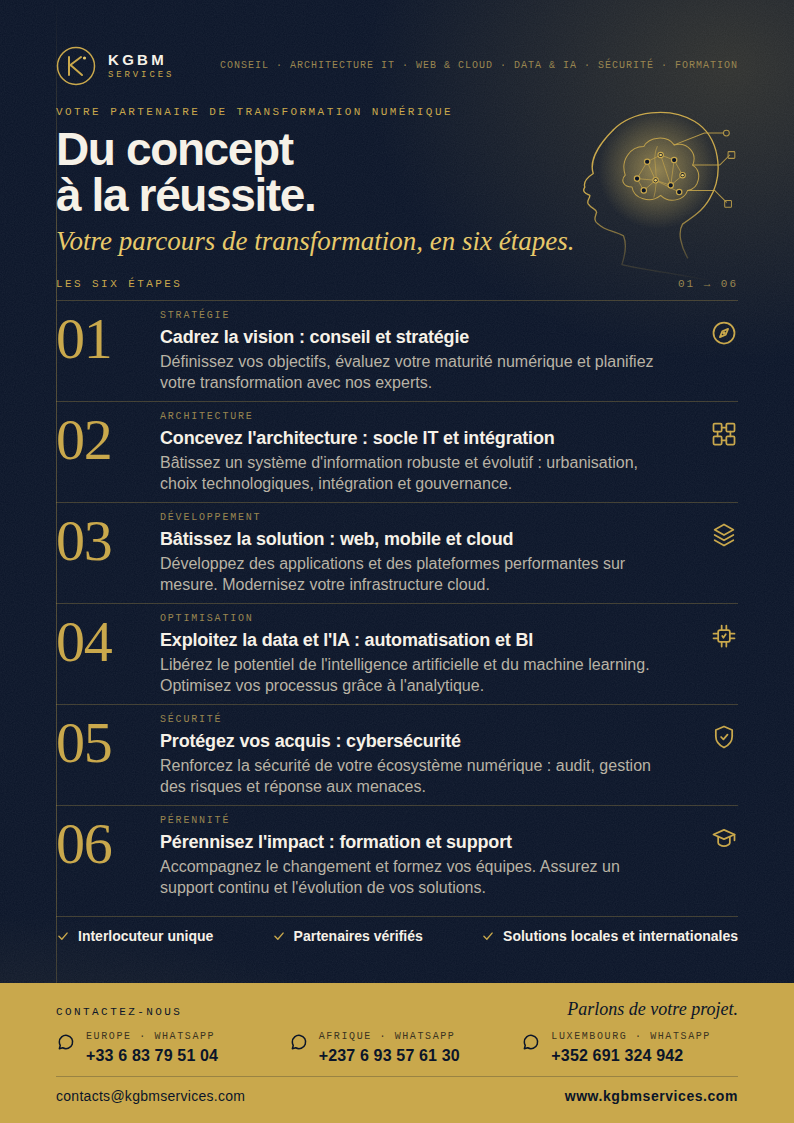
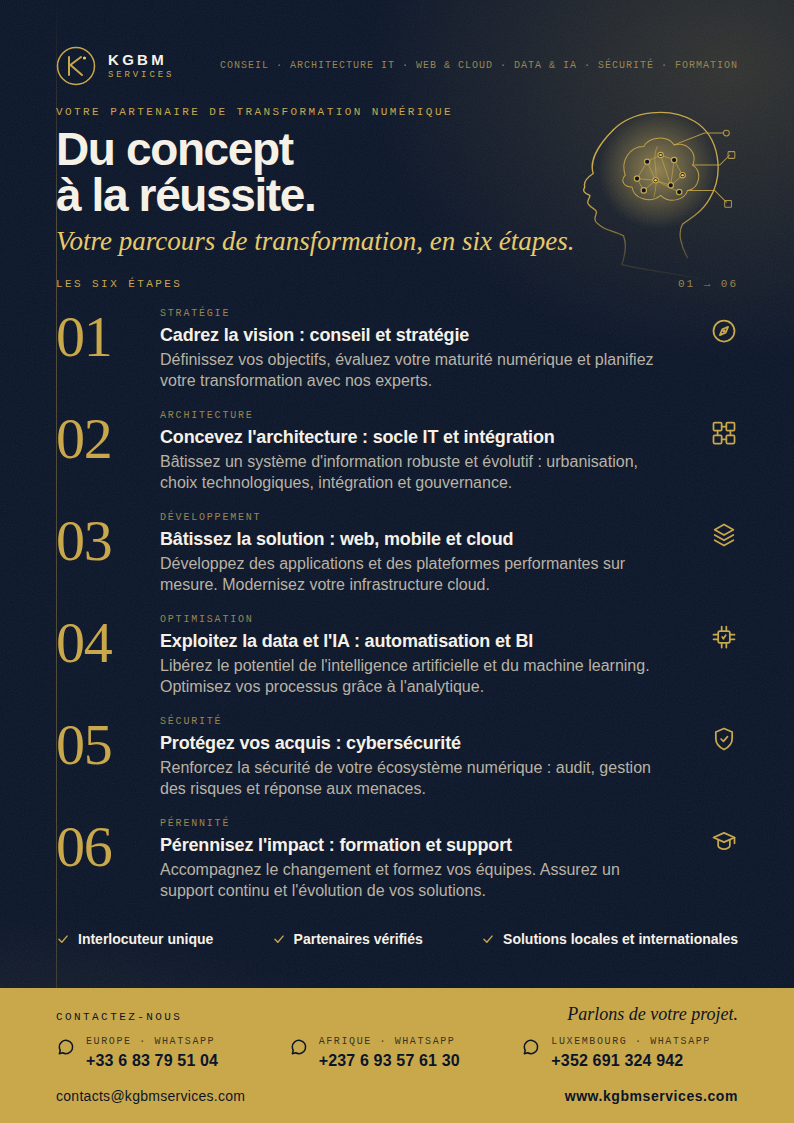
design(flyer): suppression des filets horizontaux, structure par numéros et espacement
Claude-Session: https://claude.ai/code/session_01DPYxJtRniBC8Gpo4sdzXU9

diff --git a/design/flyer-kgbm/PapierClair.dc.html b/design/flyer-kgbm/PapierClair.dc.html
@@ -12,7 +12,7 @@
     body { margin: 0; background: #F6F1E7; }
     a { color: #C9A84C; text-decoration: none; } a:hover { color: #E8C96A; }
     .ico { width: 28px; height: 28px; fill: none; stroke: #C9A84C; stroke-width: 1.5; stroke-linecap: round; stroke-linejoin: round; }
-    .row { display: grid; grid-template-columns: 88px minmax(0, 1fr) 48px; column-gap: 16px; align-items: start; padding: 8px 0; border-top: 1px solid rgba(201,168,76,0.28); }
+    .row { display: grid; grid-template-columns: 88px minmax(0, 1fr) 48px; column-gap: 16px; align-items: start; padding: 9px 0; }
     .num { font-family: 'Cormorant Garamond', Georgia, 'Times New Roman', serif; font-weight: 300; font-size: 58px; line-height: 52px; color: #C9A84C; letter-spacing: -0.02em; margin-top: 4px; }
     .kick { font-family: 'IBM Plex Mono', 'Courier New', monospace; font-size: 10px; line-height: 14px; letter-spacing: 0.18em; text-transform: uppercase; color: #8A7430; }
     .ttl { font-family: Archivo, 'Helvetica Neue', Arial, sans-serif; font-weight: 700; font-size: 18px; line-height: 22px; color: #1B2238; margin-top: 3px; letter-spacing: -0.01em; }
@@ -57,7 +57,7 @@
       <div style="font-family: 'IBM Plex Mono', 'Courier New', monospace; font-size: 11px; line-height: 16px; letter-spacing: 0.18em; text-transform: uppercase; color: #8A7430;">01 → 06</div>
     </div>
 
-    <div style="margin-top: 8px; display: flex; flex-direction: column;">
+    <div style="margin-top: 6px; display: flex; flex-direction: column;">
 
       <div class="row">
         <div class="num">01</div>
@@ -122,7 +122,7 @@
     </div>
 
     <!-- avantages -->
-    <div style="margin-top: 10px; padding: 10px 0 12px 0; border-top: 1px solid rgba(201,168,76,0.28); display: flex; justify-content: space-between; align-items: center; gap: 16px;">
+    <div style="margin-top: 12px; padding: 8px 0 14px 0; display: flex; justify-content: space-between; align-items: center; gap: 16px;">
       <div style="display: flex; align-items: center; gap: 8px; font-weight: 700; font-size: 14px; line-height: 18px; color: #1B2238; white-space: nowrap;"><svg width="14" height="14" viewBox="0 0 24 24" xmlns="http://www.w3.org/2000/svg" style="flex: none; fill: none; stroke: #9A7810; stroke-width: 2.4; stroke-linecap: round; stroke-linejoin: round;"><path d="M5 12.5 L10 17.5 L19 7"></path></svg><span>Interlocuteur unique</span></div>
       <div style="display: flex; align-items: center; gap: 8px; font-weight: 700; font-size: 14px; line-height: 18px; color: #1B2238; white-space: nowrap;"><svg width="14" height="14" viewBox="0 0 24 24" xmlns="http://www.w3.org/2000/svg" style="flex: none; fill: none; stroke: #9A7810; stroke-width: 2.4; stroke-linecap: round; stroke-linejoin: round;"><path d="M5 12.5 L10 17.5 L19 7"></path></svg><span>Partenaires vérifiés</span></div>
       <div style="display: flex; align-items: center; gap: 8px; font-weight: 700; font-size: 14px; line-height: 18px; color: #1B2238; white-space: nowrap;"><svg width="14" height="14" viewBox="0 0 24 24" xmlns="http://www.w3.org/2000/svg" style="flex: none; fill: none; stroke: #9A7810; stroke-width: 2.4; stroke-linecap: round; stroke-linejoin: round;"><path d="M5 12.5 L10 17.5 L19 7"></path></svg><span>Solutions locales et internationales</span></div>
@@ -158,7 +158,7 @@
         </div>
       </div>
     </div>
-    <div style="display: flex; justify-content: space-between; align-items: baseline; padding-top: 10px; border-top: 1px solid rgba(201,168,76,0.35);">
+    <div style="display: flex; justify-content: space-between; align-items: baseline; padding-top: 6px;">
       <div style="font-weight: 500; font-size: 14px; line-height: 18px; letter-spacing: 0.02em;">contacts@kgbmservices.com</div>
       <div style="font-weight: 700; font-size: 14px; line-height: 18px; letter-spacing: 0.04em;">www.kgbmservices.com</div>
     </div>

diff --git a/design/flyer-kgbm/Main.dc.html b/design/flyer-kgbm/Main.dc.html
@@ -12,7 +12,7 @@
     body { margin: 0; background: #0A1428; }
     a { color: #C9A84C; text-decoration: none; } a:hover { color: #E8C96A; }
     .ico { width: 28px; height: 28px; fill: none; stroke: #C9A84C; stroke-width: 1.5; stroke-linecap: round; stroke-linejoin: round; }
-    .row { display: grid; grid-template-columns: 88px minmax(0, 1fr) 48px; column-gap: 16px; align-items: start; padding: 8px 0; border-top: 1px solid rgba(201,168,76,0.28); }
+    .row { display: grid; grid-template-columns: 88px minmax(0, 1fr) 48px; column-gap: 16px; align-items: start; padding: 9px 0; }
     .num { font-family: 'Cormorant Garamond', Georgia, 'Times New Roman', serif; font-weight: 300; font-size: 58px; line-height: 52px; color: #C9A84C; letter-spacing: -0.02em; margin-top: 4px; }
     .kick { font-family: 'IBM Plex Mono', 'Courier New', monospace; font-size: 10px; line-height: 14px; letter-spacing: 0.18em; text-transform: uppercase; color: #9A8650; }
     .ttl { font-family: Archivo, 'Helvetica Neue', Arial, sans-serif; font-weight: 700; font-size: 18px; line-height: 22px; color: #F6F1E7; margin-top: 3px; letter-spacing: -0.01em; }
@@ -57,7 +57,7 @@
       <div style="font-family: 'IBM Plex Mono', 'Courier New', monospace; font-size: 11px; line-height: 16px; letter-spacing: 0.18em; text-transform: uppercase; color: #9A8650;">01 → 06</div>
     </div>
 
-    <div style="margin-top: 8px; display: flex; flex-direction: column;">
+    <div style="margin-top: 6px; display: flex; flex-direction: column;">
 
       <div class="row">
         <div class="num">01</div>
@@ -122,7 +122,7 @@
     </div>
 
     <!-- avantages -->
-    <div style="margin-top: 10px; padding: 10px 0 12px 0; border-top: 1px solid rgba(201,168,76,0.28); display: flex; justify-content: space-between; align-items: center; gap: 16px;">
+    <div style="margin-top: 12px; padding: 8px 0 14px 0; display: flex; justify-content: space-between; align-items: center; gap: 16px;">
       <div style="display: flex; align-items: center; gap: 8px; font-weight: 700; font-size: 14px; line-height: 18px; color: #F6F1E7; white-space: nowrap;"><svg width="14" height="14" viewBox="0 0 24 24" xmlns="http://www.w3.org/2000/svg" style="flex: none; fill: none; stroke: #C9A84C; stroke-width: 2.4; stroke-linecap: round; stroke-linejoin: round;"><path d="M5 12.5 L10 17.5 L19 7"></path></svg><span>Interlocuteur unique</span></div>
       <div style="display: flex; align-items: center; gap: 8px; font-weight: 700; font-size: 14px; line-height: 18px; color: #F6F1E7; white-space: nowrap;"><svg width="14" height="14" viewBox="0 0 24 24" xmlns="http://www.w3.org/2000/svg" style="flex: none; fill: none; stroke: #C9A84C; stroke-width: 2.4; stroke-linecap: round; stroke-linejoin: round;"><path d="M5 12.5 L10 17.5 L19 7"></path></svg><span>Partenaires vérifiés</span></div>
       <div style="display: flex; align-items: center; gap: 8px; font-weight: 700; font-size: 14px; line-height: 18px; color: #F6F1E7; white-space: nowrap;"><svg width="14" height="14" viewBox="0 0 24 24" xmlns="http://www.w3.org/2000/svg" style="flex: none; fill: none; stroke: #C9A84C; stroke-width: 2.4; stroke-linecap: round; stroke-linejoin: round;"><path d="M5 12.5 L10 17.5 L19 7"></path></svg><span>Solutions locales et internationales</span></div>
@@ -158,7 +158,7 @@
         </div>
       </div>
     </div>
-    <div style="display: flex; justify-content: space-between; align-items: baseline; padding-top: 10px; border-top: 1px solid rgba(10,20,40,0.25);">
+    <div style="display: flex; justify-content: space-between; align-items: baseline; padding-top: 6px;">
       <div style="font-weight: 500; font-size: 14px; line-height: 18px; letter-spacing: 0.02em;">contacts@kgbmservices.com</div>
       <div style="font-weight: 700; font-size: 14px; line-height: 18px; letter-spacing: 0.04em;">www.kgbmservices.com</div>
     </div>

diff --git a/design/flyer-kgbm/Affiche.dc.html b/design/flyer-kgbm/Affiche.dc.html
@@ -11,7 +11,7 @@
   <style>
     body { margin: 0; background: #0A1428; }
     a { color: #C9A84C; } a:hover { color: #E8C96A; }
-    .li { display: grid; grid-template-columns: 40px minmax(0, 1fr); column-gap: 12px; align-items: baseline; padding: 10px 0; border-top: 1px solid rgba(201,168,76,0.3); }
+    .li { display: grid; grid-template-columns: 40px minmax(0, 1fr); column-gap: 12px; align-items: baseline; padding: 10px 0; }
     .n { font-family: 'IBM Plex Mono', 'Courier New', monospace; font-size: 13px; line-height: 20px; color: #C9A84C; }
     .t { font-family: Archivo, 'Helvetica Neue', Arial, sans-serif; font-weight: 700; font-size: 17px; line-height: 22px; color: #F6F1E7; }
     .d { font-family: Archivo, 'Helvetica Neue', Arial, sans-serif; font-size: 14px; line-height: 19px; color: #B9B3A5; margin-top: 2px; }
@@ -49,7 +49,7 @@
           <div><div style="font-size: 11px; letter-spacing: 0.12em; text-transform: uppercase; color: #3B3320;">Afrique</div><div style="font-weight: 700; font-size: 17px; line-height: 22px;">+237 6 93 57 61 30</div></div>
           <div><div style="font-size: 11px; letter-spacing: 0.12em; text-transform: uppercase; color: #3B3320;">Luxembourg</div><div style="font-weight: 700; font-size: 17px; line-height: 22px;">+352 691 324 942</div></div>
         </div>
-        <div style="padding-top: 10px; border-top: 1px solid rgba(10,20,40,0.25); font-size: 13px; line-height: 18px;">contacts@kgbmservices.com<br><strong>www.kgbmservices.com</strong></div>
+        <div style="padding-top: 6px; font-size: 13px; line-height: 18px;">contacts@kgbmservices.com<br><strong>www.kgbmservices.com</strong></div>
       </div>
     </div>
 
